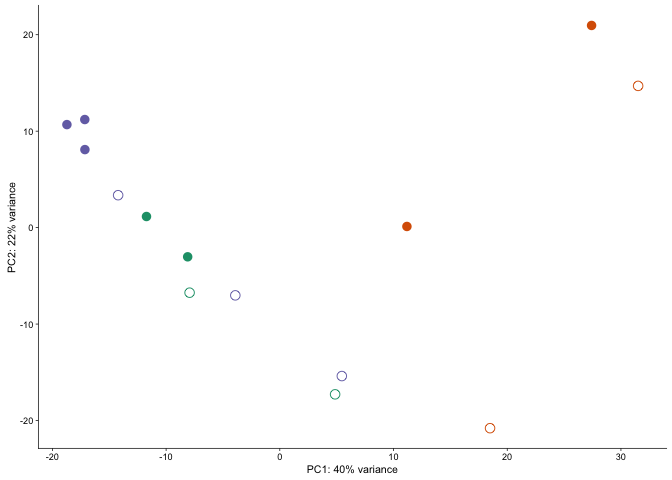
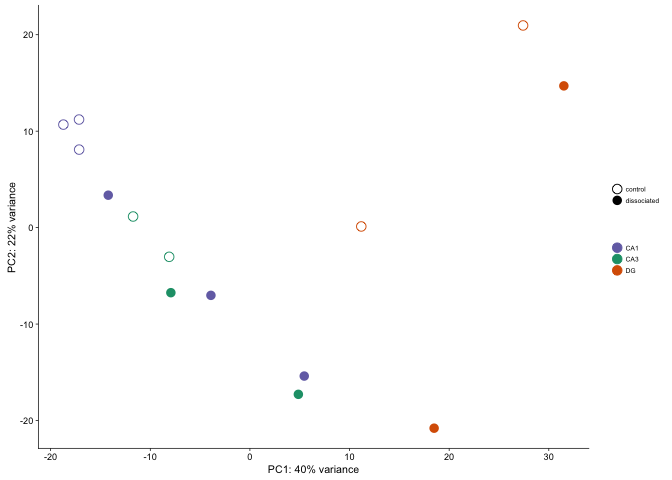
volcanos pca

diff --git a/scripts/01_DissociationTest.md b/scripts/01_DissociationTest.md
@@ -382,20 +382,20 @@ by their tight clustering.
         ylab(paste0("PC2: ", percentVar[2],"% variance")) +
         scale_color_manual(values = colorvalSubfield) +
         theme_cowplot(font_size = 8, line_size = 0.25)  +
-        theme(legend.position="none") +
-        scale_shape_manual(values=c(16, 1)) 
+        scale_shape_manual(values=c(1, 16))  +
+        theme(legend.position="right",
+              #legend.key.size = unit(1, "mm"),
+              #legend.key = element_rect(size = 1),
+              legend.key.width=unit(0.1,"mm"),
+              legend.key.height=unit(0.1,"cm"),
+              legend.title=element_blank(),
+              legend.text = element_text(size = 5)) 
+
     PCA12
 
 ![](../figures/01_dissociationtest/PCA-1.png)
 
-    pdf(file="../figures/01_dissociationtest/PCA-1.pdf", width=1.75, height=2)
-    plot(PCA12)
-    dev.off()
-
-    ## quartz_off_screen 
-    ##                 2
-
-    pdf(file="../figures/pca/Fig1D.pdf", width=2, height=2)
+    pdf(file="../figures/pca/Fig1D.pdf", width=2.3, height=2)
     plot(PCA12)
     dev.off()
 
